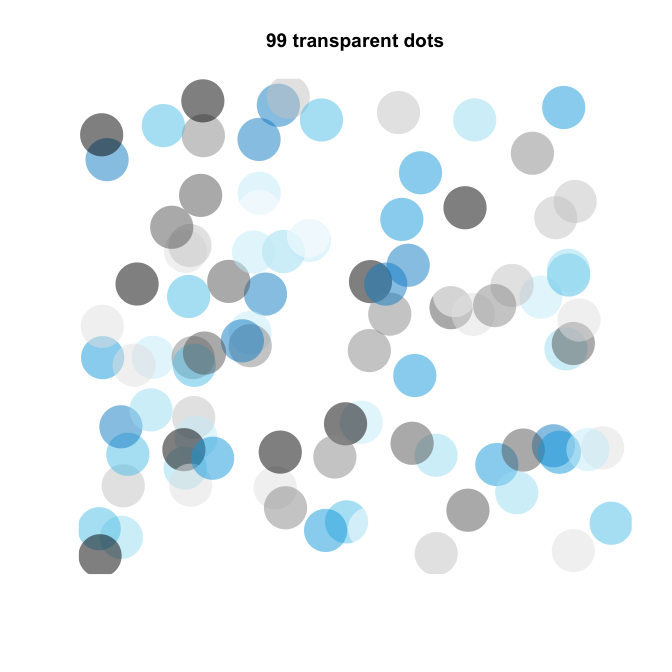
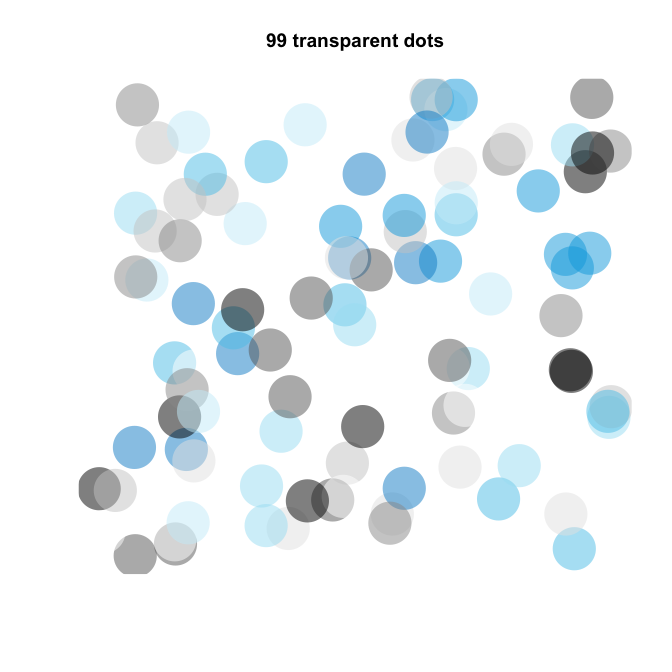
add seed to scatterplot (to avoid creating a new one every time)

diff --git a/README.md b/README.md
@@ -252,6 +252,7 @@ Providing an opacity value for `alpha` (in the range `[0, 1]`) allows adding tra
 
 ``` r
 # (c) Scatterplots:
+set.seed(-99)
 plot(x = runif(99), y = runif(99), "p", pch = 16, cex = 6, 
      col = usecol(pal_unikn, alpha = .5),  # transparency
      main = "99 transparent dots", axes = FALSE, xlab = NA, ylab = NA)
@@ -458,7 +459,7 @@ Color definitions are based on the following sources:
 -   [Colours for complex graphics (xls)](https://www.uni-konstanz.de/en/university/news-and-media/create-online-and-print-media/corporate-design/colours-for-complex-graphics/)
 
 <!-- Update: -->
-\[Updated on 2019-06-04.\]
+\[Updated on 2019-06-05.\]
 
 <!-- eof. -->
 
